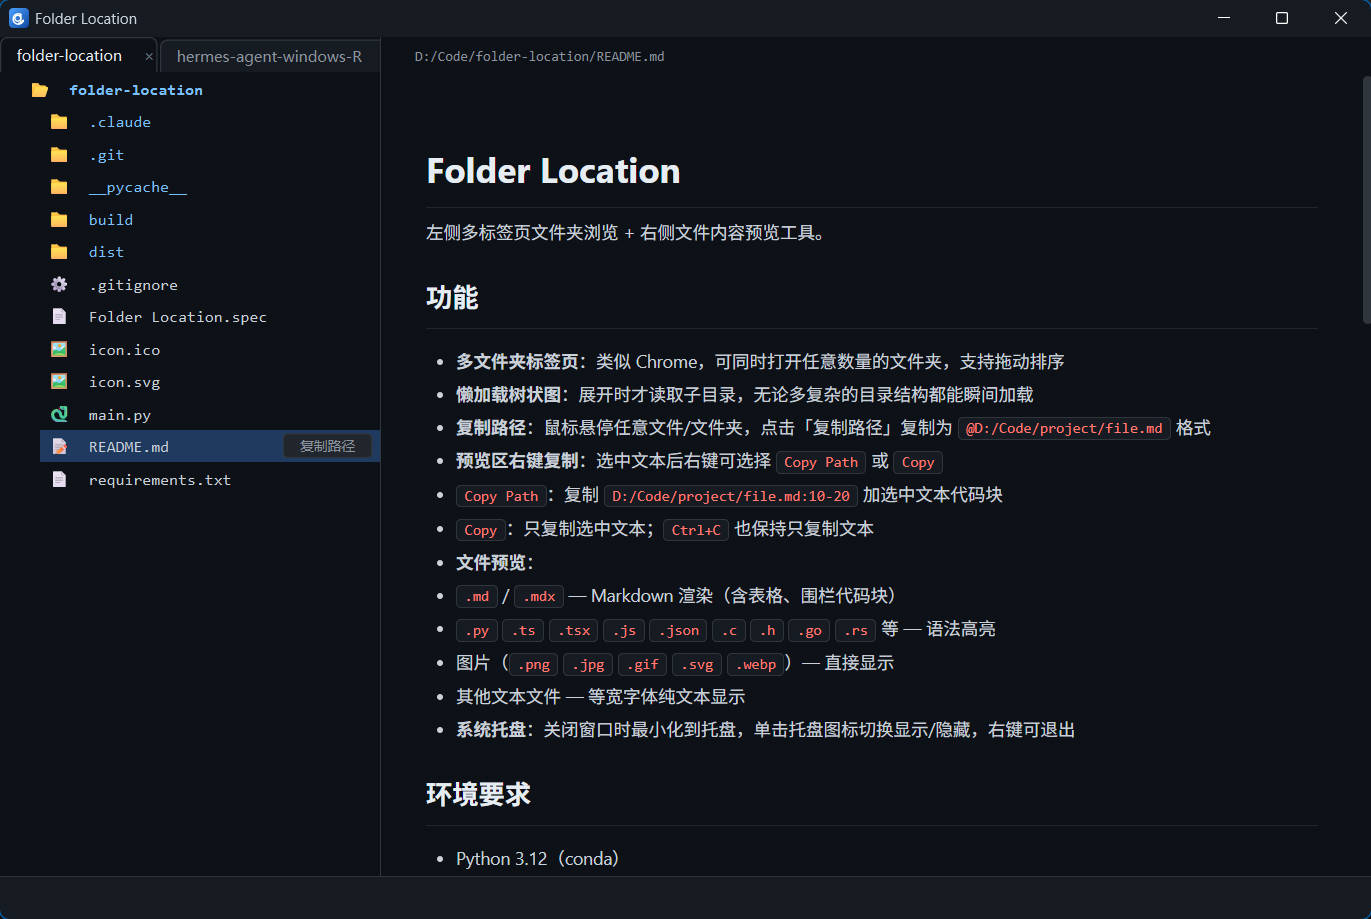
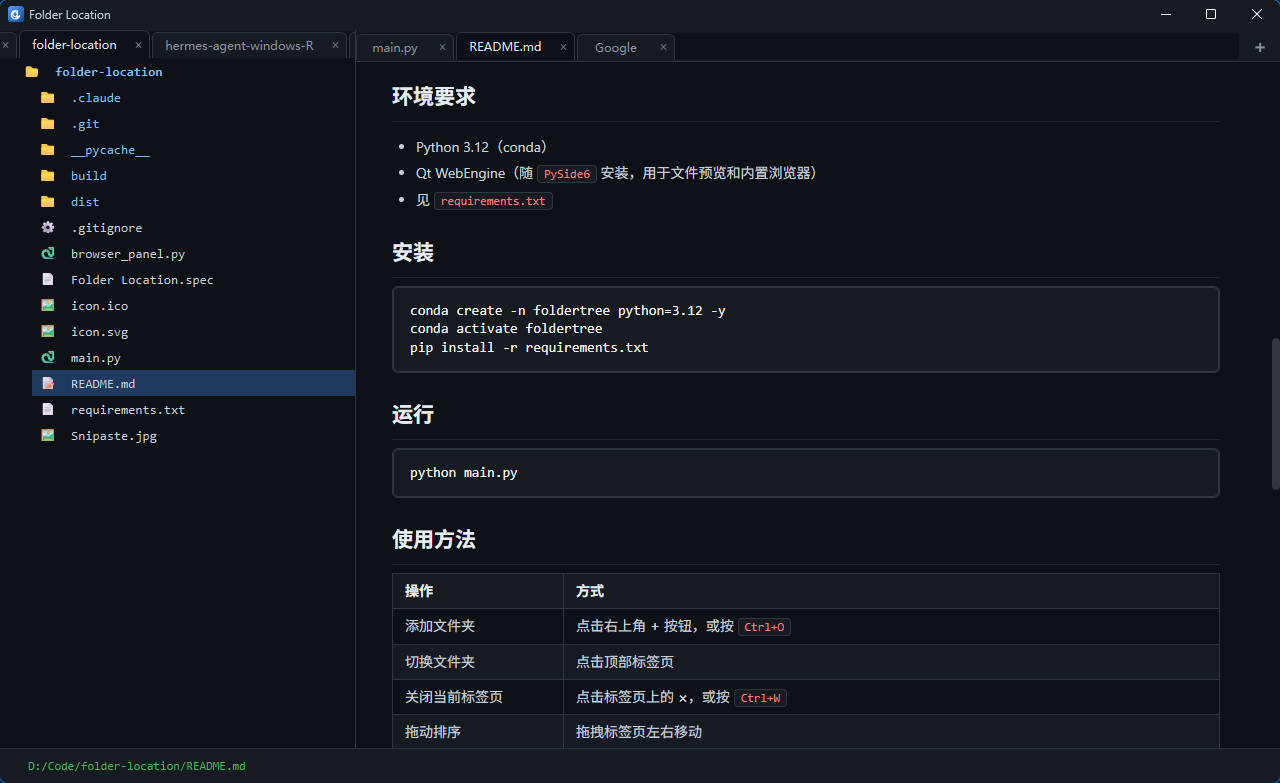
chore: update status text and stop fade animation on tab switch
Update the status bar text to display the current file path when a preview tab is switched and stop the fade animation to ensure the status remains visible.

diff --git a/main.py b/main.py
@@ -2309,6 +2309,8 @@ class MainWindow(QMainWindow):
 
     def _on_preview_tab_switched(self, path: Path) -> None:
         self.folder_panel.navigate_to_file(path)
+        self._status.setText("  " + path.as_posix())
+        self._fade.stop()
 
 
 # ── Entry point ───────────────────────────────────────────────────────────────
